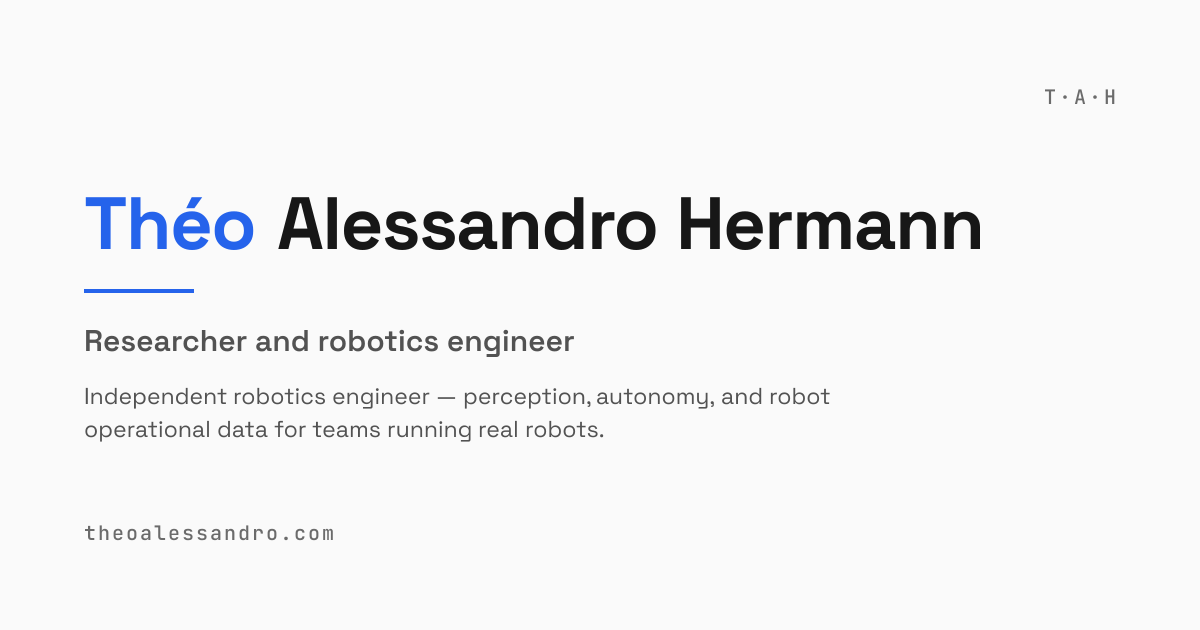
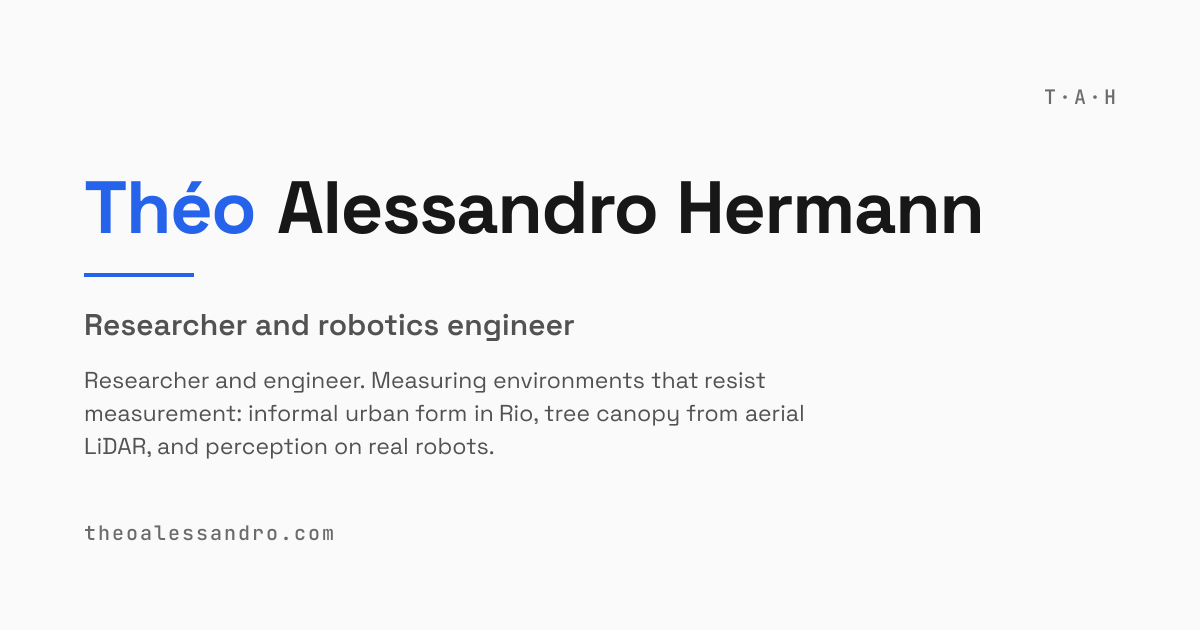
com: the meta description and social card catch up with the repositioning
The sentence that appears in search results and in every link preview still
described an independent robotics engineer selling to teams running real
robots. It now says what the site is. Social card regenerated from it.

Also updates CLAUDE.md, which was still describing this as a consulting
front door and still repeated the Roboat error in its own north star: it now
states the audience, the disclosure rule, and both corrected roles, and
points at the vision document as the thing to read first.

Claude-Session: https://claude.ai/code/session_01X5559hgoM3gGGDWQBK54RC

Changed region(s): [[0.0617, 0.4222, 0.6783, 0.7238], [0.0617, 0.2714, 0.8325, 0.3921]]

diff --git a/src/data/site.ts b/src/data/site.ts
@@ -1,7 +1,7 @@
 export const siteConfig = {
   title: 'Théo Alessandro Hermann',
   description:
-    'Independent robotics engineer — perception, autonomy, and robot operational data for teams running real robots.',
+    'Researcher and engineer. Measuring environments that resist measurement: informal urban form in Rio, tree canopy from aerial LiDAR, and perception on real robots.',
   url: 'https://theoalessandro.com',
   author: 'Théo Alessandro Hermann',
   ogImage: '/og-default.png',

diff --git a/CLAUDE.md b/CLAUDE.md
@@ -8,16 +8,34 @@ A parallel rebrand exploration lives on `design-sprint-2026-05-14` (Astro + Frau
 
 ## 1. Project north star
 
-Personal site for **Théo Alessandro Hermann** — independent robotics engineer.
+**RESEARCH PORTFOLIO** for **Théo Alessandro Hermann**. Repositioned in cycle 10
+(2026-09-14) by the owner's direction. The full vision is written up at
+`~/Perso/site-review/docs/vision-com.md` and that document, not this section,
+is the thing to read before changing the site.
 
-- **Primary:** independent robotics consulting — perception, autonomy, robot operational data — for teams running real robots.
-- **Credential:** research fellow at MIT Senseable City Lab Rio — LiDAR reconstruction of dense informal settlements.
-- **Open-source robotics:** `perception-pipeline`, `ros2-localization-triage`.
-- **Past marquee credit:** Roboat (MIT spinoff), first engineering hire — past tense.
+- **Audience:** peers and collaborators. Researchers who might cite him,
+  co-author with him, or invite him somewhere. Nothing on this site is sold.
+- **Positioning:** the axes are one problem seen in three places. Measuring
+  environments that resist measurement, and turning raw sensing into a number
+  someone can defend. The first paragraph carries that unification; credentials
+  come after it.
+- **Disclosure, and it governs everything:** method and affiliation only. No
+  results, no numbers that are findings, no paper titles, no venues. A derived
+  quantity is itself a claim and therefore a discredit risk. This is what "less
+  is more" means on this site.
+- **Roles, stated correctly:** founding member of MIT Senseable City Lab Rio,
+  NOT its lead. First **intern** at Roboat, on computer vision and MLOps,
+  adding camera perception to a stack that ran on LiDAR — NOT an engineering
+  hire and not a perception lead. Both errors were live on the site until
+  2026-09-14; do not reintroduce them.
+- **Open source:** `perception-pipeline`, `ros2-localization-triage`,
+  `agent-harness`.
 
 **Domain split (decided 2026-09-03):** `theohermann.ch` (bought 2026-09-03, not yet delegated) will become the sharp, client-facing robotics-consulting landing; `theoalessandro.com` becomes the personal site bridging all professional axes plus experimentation. Cycle 7 still lands here as the seed material for the .ch site; from cycle 8 the consulting funnel moves to .ch and this site re-widens. `theoalessandro.com` is the personal multi-axis site; the robotics consulting landing is `theohermann.ch` (its own repo).
 
-The site is an outbound-funnel front door: a cold-outbound reader (CTO, head of autonomy, technical founder) decides in 20-90 seconds whether a call is worth it. Robotics-engineer-for-hire first; MIT is a credential, not the lead identity.
+A peer lands with about thirty seconds and decides whether this person is worth
+an email, a citation, or a session slot. The research leads; the engineering
+work supports it.
 
 ---
 
@@ -32,17 +50,20 @@ The site is an outbound-funnel front door: a cold-outbound reader (CTO, head of 
 
 ### Positioning (one-liner)
 
-> Independent robotics engineer. Perception, autonomy, and robot operational data for teams running real robots — investigate, prototype, improve. Research fellow at MIT Senseable City Lab Rio.
+> Researcher and engineer. I measure environments that resist measurement: cities built without plans, tree canopy across a whole city, robots that have to know where they are. Different fields, one problem. Turning raw sensing into a number someone can defend.
 
 ### Tag triplet
 
-Superseded 2026-09-03: `site.ts` `description` is now the site description sentence itself — "Independent robotics engineer — perception, autonomy, and robot operational data for teams running real robots." No triplet, no "Urban Science" anywhere in rendered HTML (`check-build.mjs` forbids the string). The site is collaboration-first: no "open to roles" / "senior perception roles" job-seeking copy anywhere in rendered HTML (both strings are gated by `check-build.mjs`), and no prospective-employer name-drops (Anduril/Figure/Waymo were removed deliberately).
+Superseded 2026-09-14: `site.ts` `description` is the research-portfolio sentence — "Researcher and engineer. Measuring environments that resist measurement: informal urban form in Rio, tree canopy from aerial LiDAR, and perception on real robots." No triplet, no "Urban Science" anywhere in rendered HTML (`check-build.mjs` forbids the string). The site is collaboration-first: no "open to roles" / "senior perception roles" job-seeking copy anywhere in rendered HTML (both strings are gated by `check-build.mjs`), and no prospective-employer name-drops (Anduril/Figure/Waymo were removed deliberately).
 
 ### Audience priority
 
-1. Robotics CTOs, heads of autonomy, technical founders — consulting prospects at companies running real robots
-2. Research collaborators across robotics + perception
-3. Hiring managers at frontier physical-AI companies — reachable, but never pitched to directly on-site
+1. Peer researchers and potential collaborators (urban analytics, remote sensing, robotics perception)
+2. Labs and organisers who might invite or co-author
+3. Anyone assessing the engineering behind the research
+
+Consulting prospects are NOT an audience here. That funnel is theohermann.ch,
+and this site links to it from nowhere a peer will reach (cycle-10 ruling).
 
 ### Tenure
 
@@ -122,8 +143,8 @@ Tailwind utility classes are the chosen convention on `main`. Don't refactor com
 
 | Path             | Purpose                                                                   |
 | ---------------- | ------------------------------------------------------------------------- |
-| `/`              | Hero → Artifact band (real AMCL replay) → Proof grid → Offer → Territory strip → About → Contact (single document) |
-| `/consulting`    | Consulting engagement scopes — lead scope ROS 2 fleet log triage          |
+| `/`              | Hero → Research (lead thread + Vidigal point-cloud artifact) → Selected work (6 cards) → About → Contact |
+| `/consulting`    | Orphaned: live, but unreachable from nav or any link on this site. Four of its five scopes exist nowhere else yet. |
 | `/projects`      | Project index (all published projects)                                    |
 | `/projects/[id]` | Project detail                                                            |
 | `/cv`            | Full CV — unlinked from nav/footer, linked once from About ("Full CV →")  |
@@ -131,7 +152,7 @@ Tailwind utility classes are the chosen convention on `main`. Don't refactor com
 | `/404`           | Not found                                                                 |
 | `/rss.xml`       | Projects feed (drafts excluded)                                           |
 
-Drafted (unpublished, `draft: true`; files stay in git, routes don't build): `agent-harness`, `urban-digital-twin`, `aerial-lidar-tree-census`, `hybrid-mpc-rl-racing`.
+Drafted (unpublished, `draft: true`): `hybrid-mpc-rl-racing` only. `urban-digital-twin` and `aerial-lidar-tree-census` were rewritten method-only from their repos and published in cycle 10; `agent-harness` was published in cycle 9.
 
 ### Deliberately removed
 
@@ -218,7 +239,9 @@ CI noise — same checks, same exit codes.
 
 - Use `@theoh-io` anywhere on the site
 - Re-introduce `/research`, `publications`, `Nature Cities`, or `AGU Fall` to rendered HTML — `npm test` will block
-- Surface "Roboat" as currently-active work — it's past
+- Surface "Roboat" as currently-active work — it's past, and it was an internship (CV + MLOps), never an engineering hire or a perception lead
+- Describe the Rio role as leading the lab — he is a founding member of the branch
+- Put a result, a finding, or a derived quantity on any research surface
 - Add Fraunces, Tropical/Cartesian registers, monogram swaps, or any rebrand-branch element without explicit direction
 - Push to `main` without `npm test` green
 - Skip the `prefers-reduced-motion` gate when adding new animations
@@ -281,3 +304,5 @@ Format: `YYYY-MM-DD — decision — rationale.`
 - CRM, newsletter, analytics of any kind (the Plausible snippet shipped since the 2026-03-20 scaffold was removed 2026-09-03 — no account ever existed behind it; add analytics only when the owner opens an account)
 - Comments, reactions, social sharing widgets
 - Prettier (not adopted on `main`; the codebase formats by hand-convention)
+
+- 2026-09-14 — Cycle 10: the site is a RESEARCH PORTFOLIO. (a) Audience is peers and collaborators; the consulting funnel is gone from this domain (cal.com removed everywhere, the "How I work" triptych deleted, "Consulting" off both nav arrays, zero links to theohermann.ch from any page a peer reaches; /consulting stays live but orphaned because four of its five scopes exist nowhere else). (b) The hero unifies the three axes into one problem instead of listing them; credentials follow. (c) FACTS CORRECTED, both were live and wrong: Roboat was a first **internship** on computer vision and MLOps against an existing LiDAR stack, not an engineering hire or a perception lead (seven surfaces); the Rio role is founding member of the branch, not lab lead; and the CV's Rio summary still claimed "CFD simulations of airborne disease transmission", the claim a cycle-9 audit had rejected on the project page only. (d) The artifact is the Vidigal point cloud and nothing else: the computed sun model, the lit-fraction readout, the per-rooftop figure, the legend and the controls were all built and then removed at the owner's direction, because a derived quantity is a claim. It is pulled back, turns slowly, and is framed from the cloud's true envelope over sampled angles. (e) The photograph is replaced by the monogram rasterised into a rotating point cloud. (f) `urban-digital-twin` and `aerial-lidar-tree-census` rewritten method-only from their repos and published; all six featured cards normalised to one scheme (sentence-case title, `where · when` label, a metric line saying how the claim can be checked, two-sentence first-person summary). (g) check-build: the `stata_caption` group became `artifact_caption`; it asserts sidecar-vs-binary lengths and, instead of requiring a disclaimer sentence, now asserts the ABSENCE of result markers on the research pages, and `DIST` is overridable so the gate can be poison-tested. (h) Vision doc: `~/Perso/site-review/docs/vision-com.md`.
